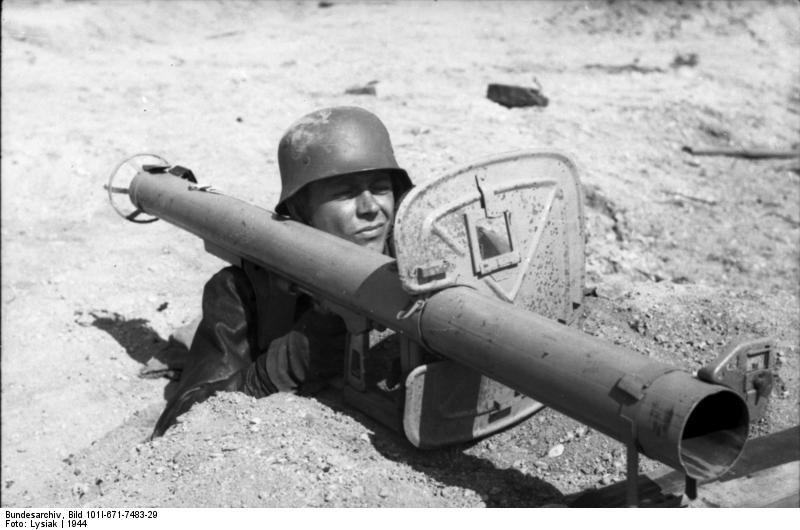
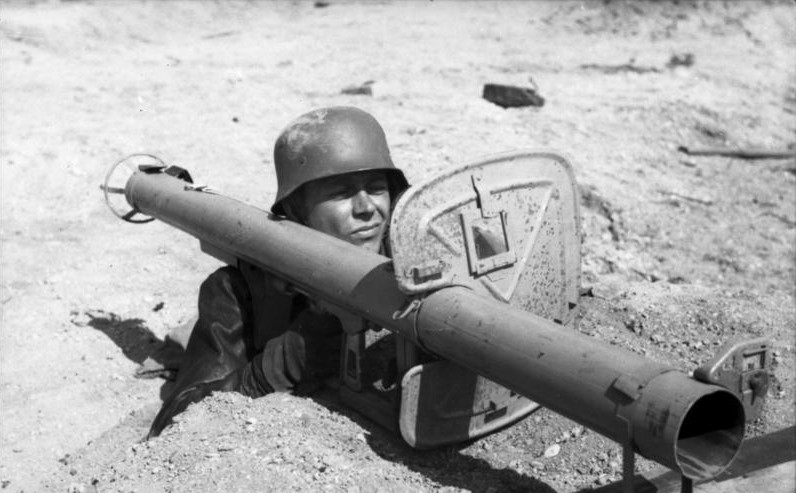
Ajout image accueil

diff --git a/assets/css/style.css b/assets/css/style.css
@@ -1,9 +1,5 @@
     @import "reset.css";
 
-  .navigation {
-  display: center;
-  }
-
     body{
         background-size: 100% ;
         font-family: Arial;

diff --git a/includes/header.php b/includes/header.php
@@ -1,10 +1,11 @@
 <header>
   <h1>Il était un petit Panzer I devenu Panther !</h1>
+</header>
   <nav>
     <ul class="navigation">
       <li><a href="index.php?page=Accueil" title="Page d'accueil">Willkommen</a></li>
     </ul>
-      <ul id="menu-deroulant">
+      <ul class="menu-deroulant">
         <li><a href="index.php?page=CV">Verrückte Geschichte</a>
           <ul>
             <li><a href="#">French CV</a></li>
@@ -18,4 +19,3 @@
       <li><a href="index.php?page=mentions" title="Les mentions légales">Rechtliche Hinweise</a></li>
     </ul>
   </nav>
-</header>

diff --git a/includes/accueil.inc.php b/includes/accueil.inc.php
@@ -1,2 +1,5 @@
   <h1>Panzerkampfwagen</h1>
-  <p> </p>
+  <p>
+    <img src="./assets/img/Panzershreck.jpg"/>
+
+  </p>
